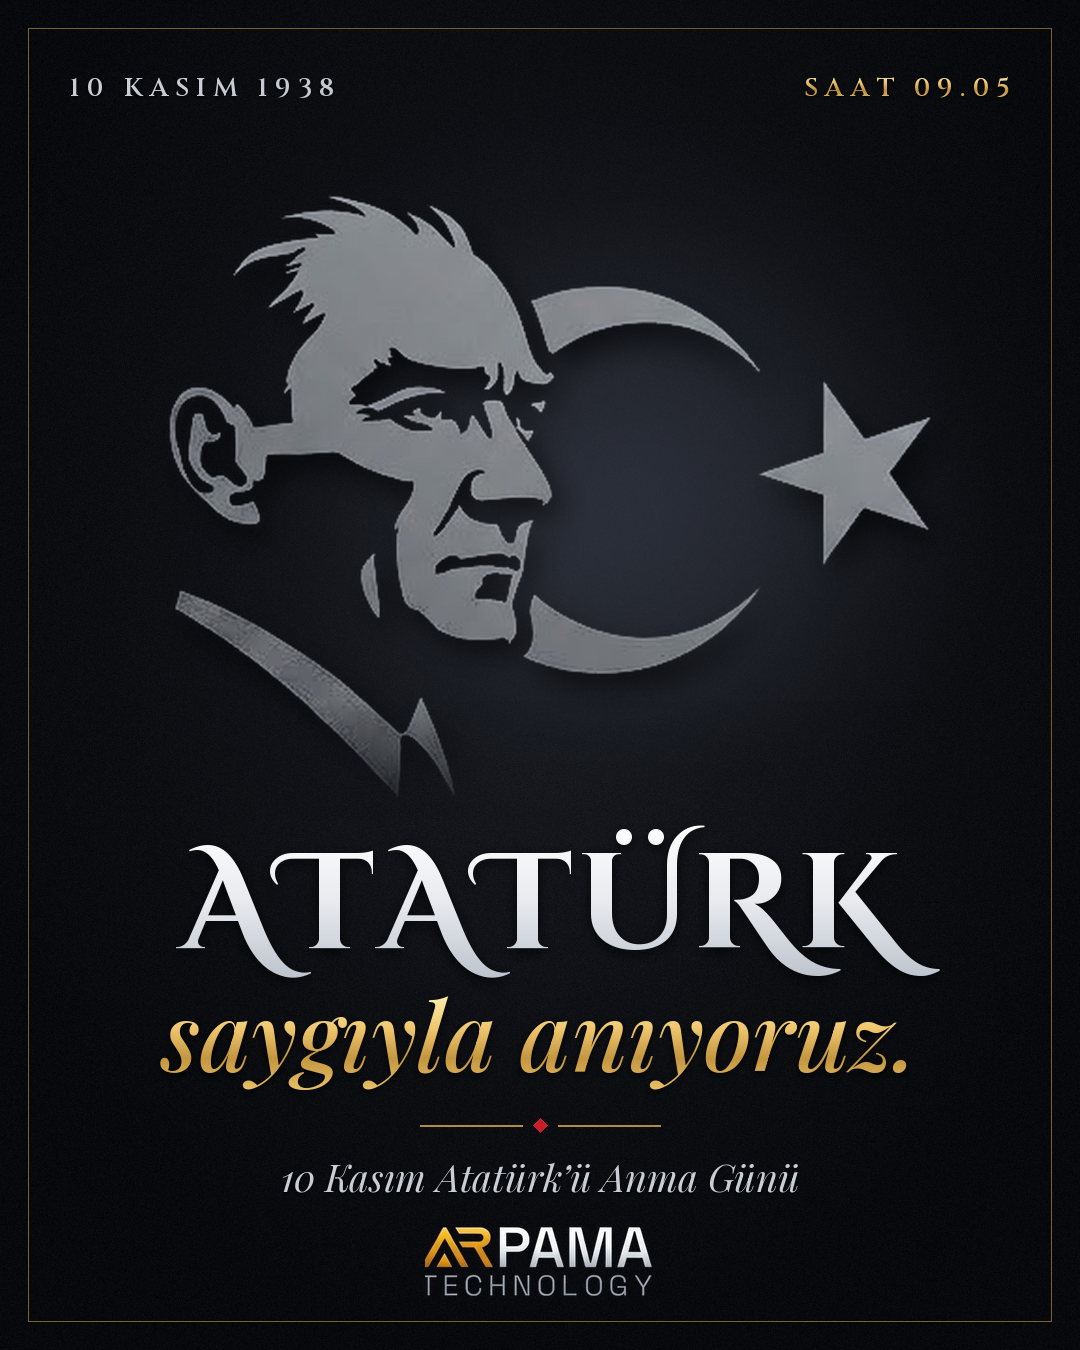
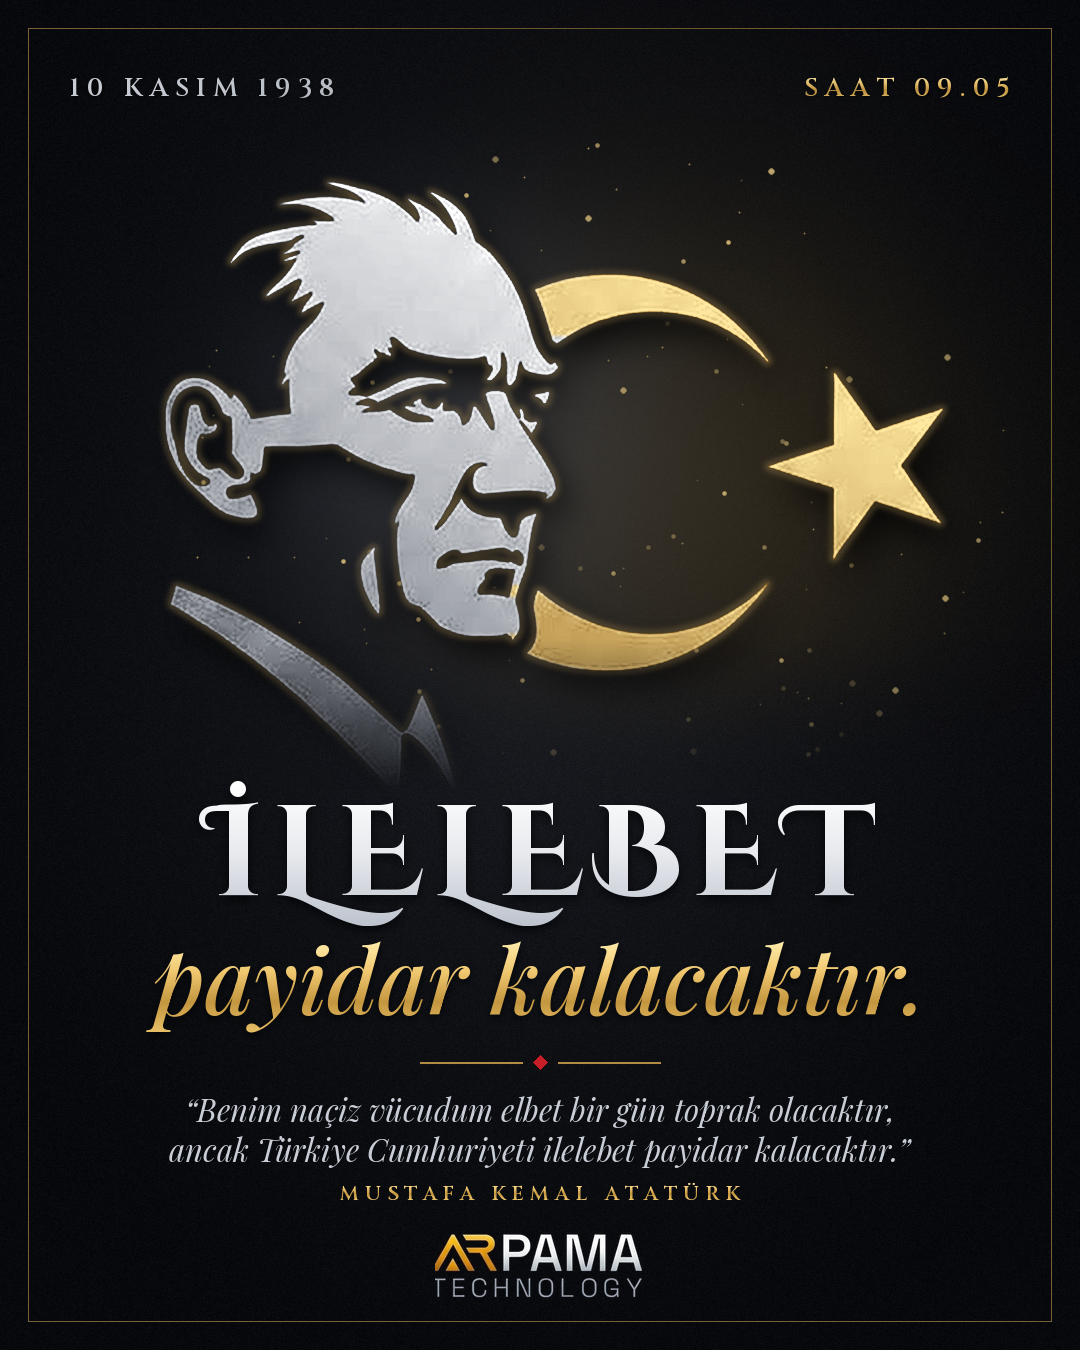
10 Kasım carousel 1. sayfa yenilendi: metalik gümüş portre, altın ay-yıldız, 'İlelebet payidar kalacaktır'
Claude-Session: https://claude.ai/code/session_01ExMbP4GyKkP4DRQ1sMWurz

diff --git a/scripts/ozel/ataturk_carousel.py b/scripts/ozel/ataturk_carousel.py
@@ -140,6 +140,68 @@ def logo_koy(im, y, genislik=230):
     im.alpha_composite(lg, (int(W / 2 - lg.width / 2), y))
 
 
+def portre_metalik(genislik):
+    """Portre gümüş metalik (parlak tepe, koyu alt), ay-yıldız metalik altın; kenarlarda altın ışık."""
+    X0, Y0 = 300, 340
+    im = Image.open(REFERANS).convert("L").crop((X0, Y0, 770, 710))
+    h = int(im.height * genislik / im.width)
+    im = im.resize((genislik, h), Image.LANCZOS)
+    a = np.array(im).astype(np.float32)
+    alfa = np.clip((a - 70) / 45, 0, 1)
+    lum = np.clip((a - 95) / (150 - 95), 0, 1) ** 0.8
+    yy = np.linspace(0, 1, h)[:, None]
+    gumus_k, gumus_p = np.array([96, 102, 114], np.float32), np.array([255, 255, 255], np.float32)
+    altin_k, altin_p = np.array([150, 104, 34], np.float32), np.array([255, 232, 160], np.float32)
+    isik = np.clip(lum * (1.05 - 0.35 * yy), 0, 1)[..., None]
+    gumus = gumus_k + (gumus_p - gumus_k) * isik
+    altin = altin_k + (altin_p - altin_k) * np.clip(lum * 1.1 - 0.1 * yy, 0, 1)[..., None]
+    # yüzün sağı (referansta x > 548) yalnızca ay ve yıldız
+    xs = np.arange(genislik) / genislik * 470 + X0
+    ay = np.clip((xs[None, :] - 548) / 6, 0, 1).repeat(h, 0)
+    # yüzden boşlukla ayrılan sağdaki parçalar (hilalin uçları) da altın
+    dolu = alfa > 0.5
+    for y in range(h):
+        ry = Y0 + y * 370 / h
+        if 445 < ry < 575:  # göz/burun hizası: yalnızca dikey sınır
+            continue
+        satir = dolu[y]
+        x = genislik - 1
+        while x > 0:
+            if satir[x]:
+                bas = x
+                while bas > 0 and satir[bas - 1]:
+                    bas -= 1
+                if xs[bas] > 505 and bas > 0:
+                    ay[y, bas:x + 1] = 1
+                x = bas - 1
+            else:
+                x -= 1
+    ay_orani = np.array(Image.fromarray((ay * 255).astype(np.uint8)).filter(ImageFilter.GaussianBlur(1.5)))[..., None] / 255.0
+    rgb = gumus * (1 - ay_orani) + altin * ay_orani
+    sp = Image.fromarray(np.dstack([rgb, alfa * 255]).astype(np.uint8), "RGBA")
+    # kenar ışığı: silüetin dışına taşan ince altın parıltı
+    m = Image.fromarray((alfa * 255).astype(np.uint8))
+    kenar = np.clip(np.array(m.filter(ImageFilter.MaxFilter(5))).astype(np.float32) - alfa * 255, 0, 255)
+    kenar = Image.fromarray(kenar.astype(np.uint8)).filter(ImageFilter.GaussianBlur(3))
+    parilti = Image.new("RGBA", sp.size, (240, 196, 110, 0))
+    parilti.putalpha(kenar.point(lambda v: int(v * 0.55)))
+    parilti.alpha_composite(sp)
+    return parilti
+
+
+def toz(im, cx, cy, r, adet=140, tohum=11):
+    """Altın toz zerreleri (portrenin arkasında)."""
+    rng = np.random.default_rng(tohum)
+    k = Image.new("RGBA", im.size, (0, 0, 0, 0))
+    kd = ImageDraw.Draw(k)
+    for _ in range(adet):
+        aci, uz = rng.uniform(0, 2 * math.pi), r * math.sqrt(rng.uniform(0.05, 1))
+        x, y = cx + uz * math.cos(aci), cy + uz * math.sin(aci) * 0.8
+        b = rng.choice([1, 1, 1, 2, 2, 3])
+        kd.ellipse([x - b, y - b, x + b, y + b], fill=(255, 220, 140, int(rng.uniform(60, 200))))
+    im.alpha_composite(k.filter(ImageFilter.GaussianBlur(0.6)))
+
+
 def sayfa1():
     im = zemin()
     d = ImageDraw.Draw(im)
@@ -147,27 +209,32 @@ def sayfa1():
     yazi(d, "10 KASIM 1938", 70, 70, ust, GUMUS, "sol", aralik=7)
     yazi(d, "SAAT 09.05", W - 70, 70, ust, ALTIN_GECIS, "sag", aralik=7)
 
-    sp = portre(880)
-    px, py = int(W / 2 - sp.width / 2) + 10, 150
-    hale(im, px + sp.width * 0.6, py + sp.height * 0.5, 300, (60, 66, 80), 0.6)
+    sp = portre_metalik(900)
+    px, py = int(W / 2 - sp.width / 2) + 14, 135
+    hale(im, px + sp.width * 0.62, py + sp.height * 0.48, 330, (150, 112, 40), 0.30)
+    hale(im, px + sp.width * 0.40, py + sp.height * 0.40, 260, (70, 78, 96), 0.45)
+    toz(im, px + sp.width * 0.55, py + sp.height * 0.48, 420)
     golge = Image.new("RGBA", sp.size, (0, 0, 0, 0))
-    golge.putalpha(sp.getchannel("A").point(lambda v: int(v * 0.6)))
-    im.alpha_composite(golge.filter(ImageFilter.GaussianBlur(14)), (px + 10, py + 16))
+    golge.putalpha(sp.getchannel("A").point(lambda v: int(v * 0.7)))
+    im.alpha_composite(golge.filter(ImageFilter.GaussianBlur(16)), (px + 12, py + 20))
     im.alpha_composite(sp, (px, py))
 
     # portrenin alt kenarını zemine erit
     yy = np.arange(H)[:, None]
-    erit = np.clip((yy - 700) / 120, 0, 1)
+    erit = np.clip((yy - 640) / 150, 0, 1)
     alt = np.array(zemin()).astype(np.float32)
     ust_k = np.array(im).astype(np.float32)
     im = Image.fromarray((ust_k * (1 - erit[..., None]) + alt * erit[..., None]).astype(np.uint8), "RGBA")
     d = ImageDraw.Draw(im)
 
-    yazi(d, "ATATÜRK", W / 2, 815, font("dekor", 136), GUMUS_GECIS, aralik=4)
-    yazi(d, "saygıyla anıyoruz.", W / 2, 968, font("italik", 96, 500), ALTIN_GECIS)
-    ayrac(d, 1125)
-    yazi(d, "10 Kasım Atatürk’ü Anma Günü", W / 2, 1150, font("italik", 38, 400), GUMUS)
-    logo_koy(im, 1218)
+    yazi(d, "İLELEBET", W / 2, 770, font("dekor", 128), GUMUS_GECIS, aralik=10)
+    yazi(d, "payidar kalacaktır.", W / 2, 915, font("italik", 92, 500), ALTIN_GECIS)
+    ayrac(d, 1062)
+    soz = font("italik", 31, 400)
+    yazi(d, "“Benim naçiz vücudum elbet bir gün toprak olacaktır,", W / 2, 1088, soz, GUMUS, golge=False)
+    yazi(d, "ancak Türkiye Cumhuriyeti ilelebet payidar kalacaktır.”", W / 2, 1128, soz, GUMUS, golge=False)
+    yazi(d, "MUSTAFA KEMAL ATATÜRK", W / 2, 1180, font("cinzel", 20, 600), ALTIN_GECIS, aralik=6, golge=False)
+    logo_koy(im, 1226, 210)
     return im.convert("RGB")
 
 
